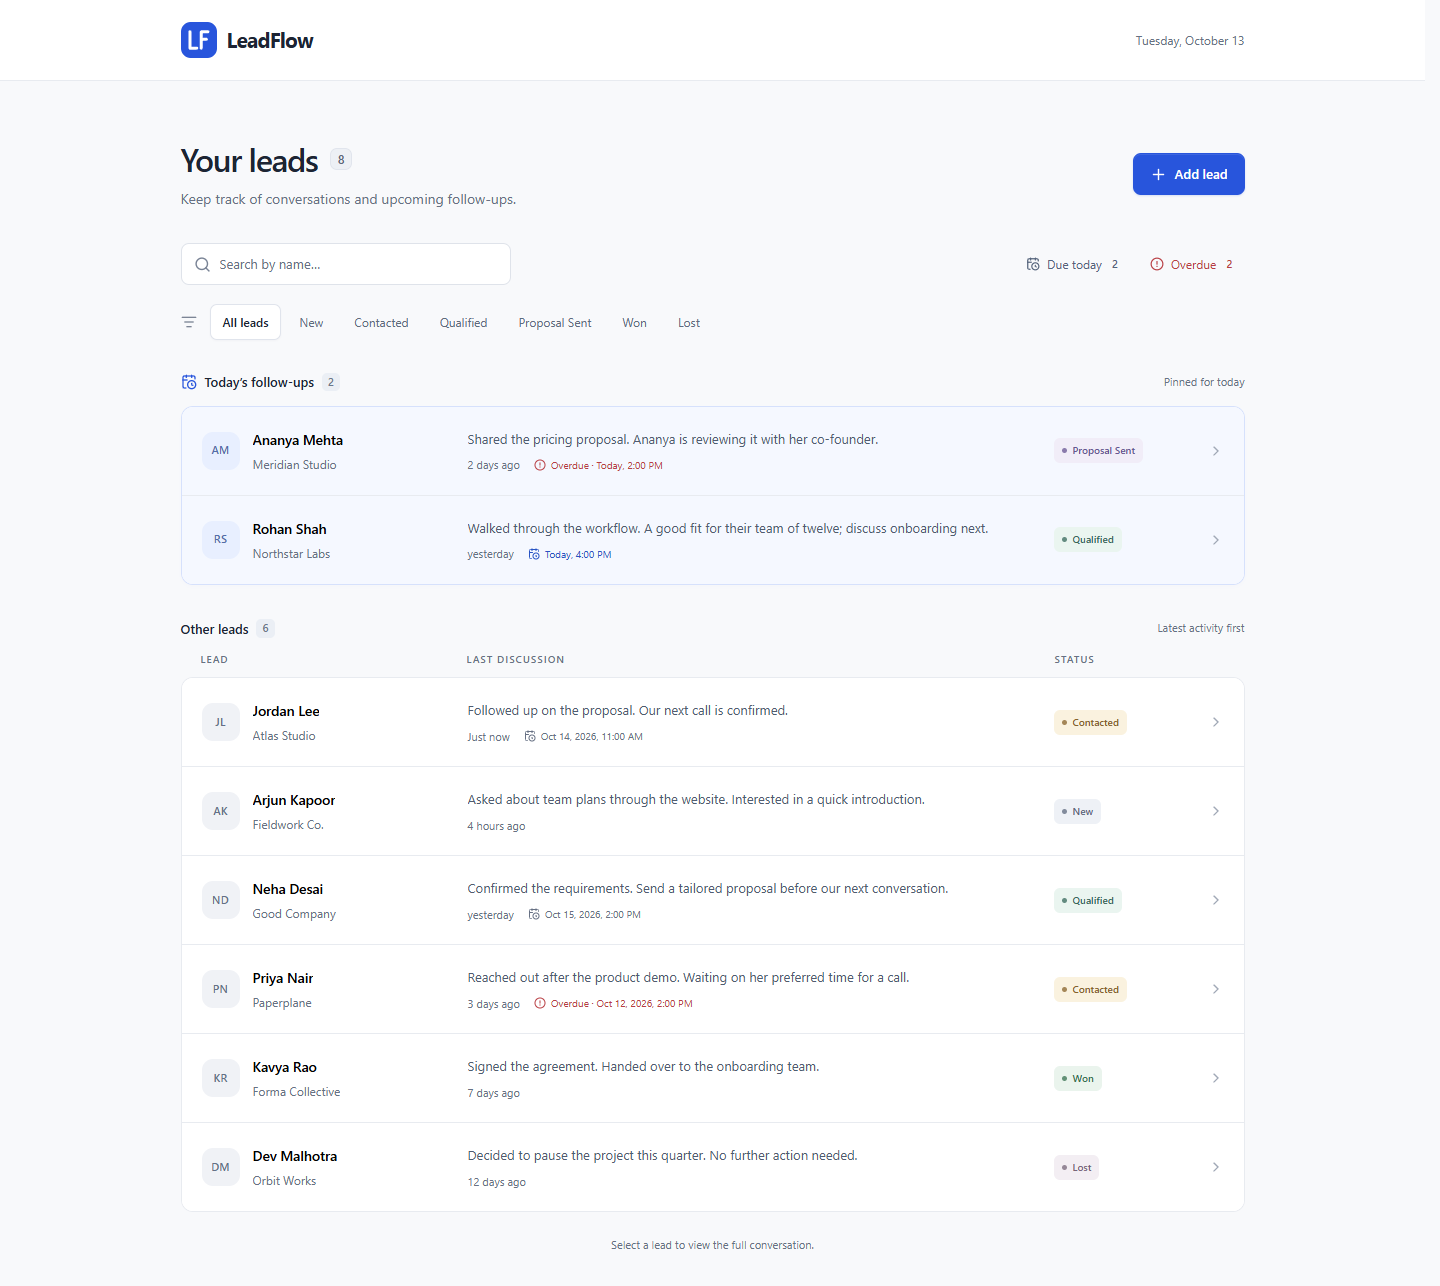
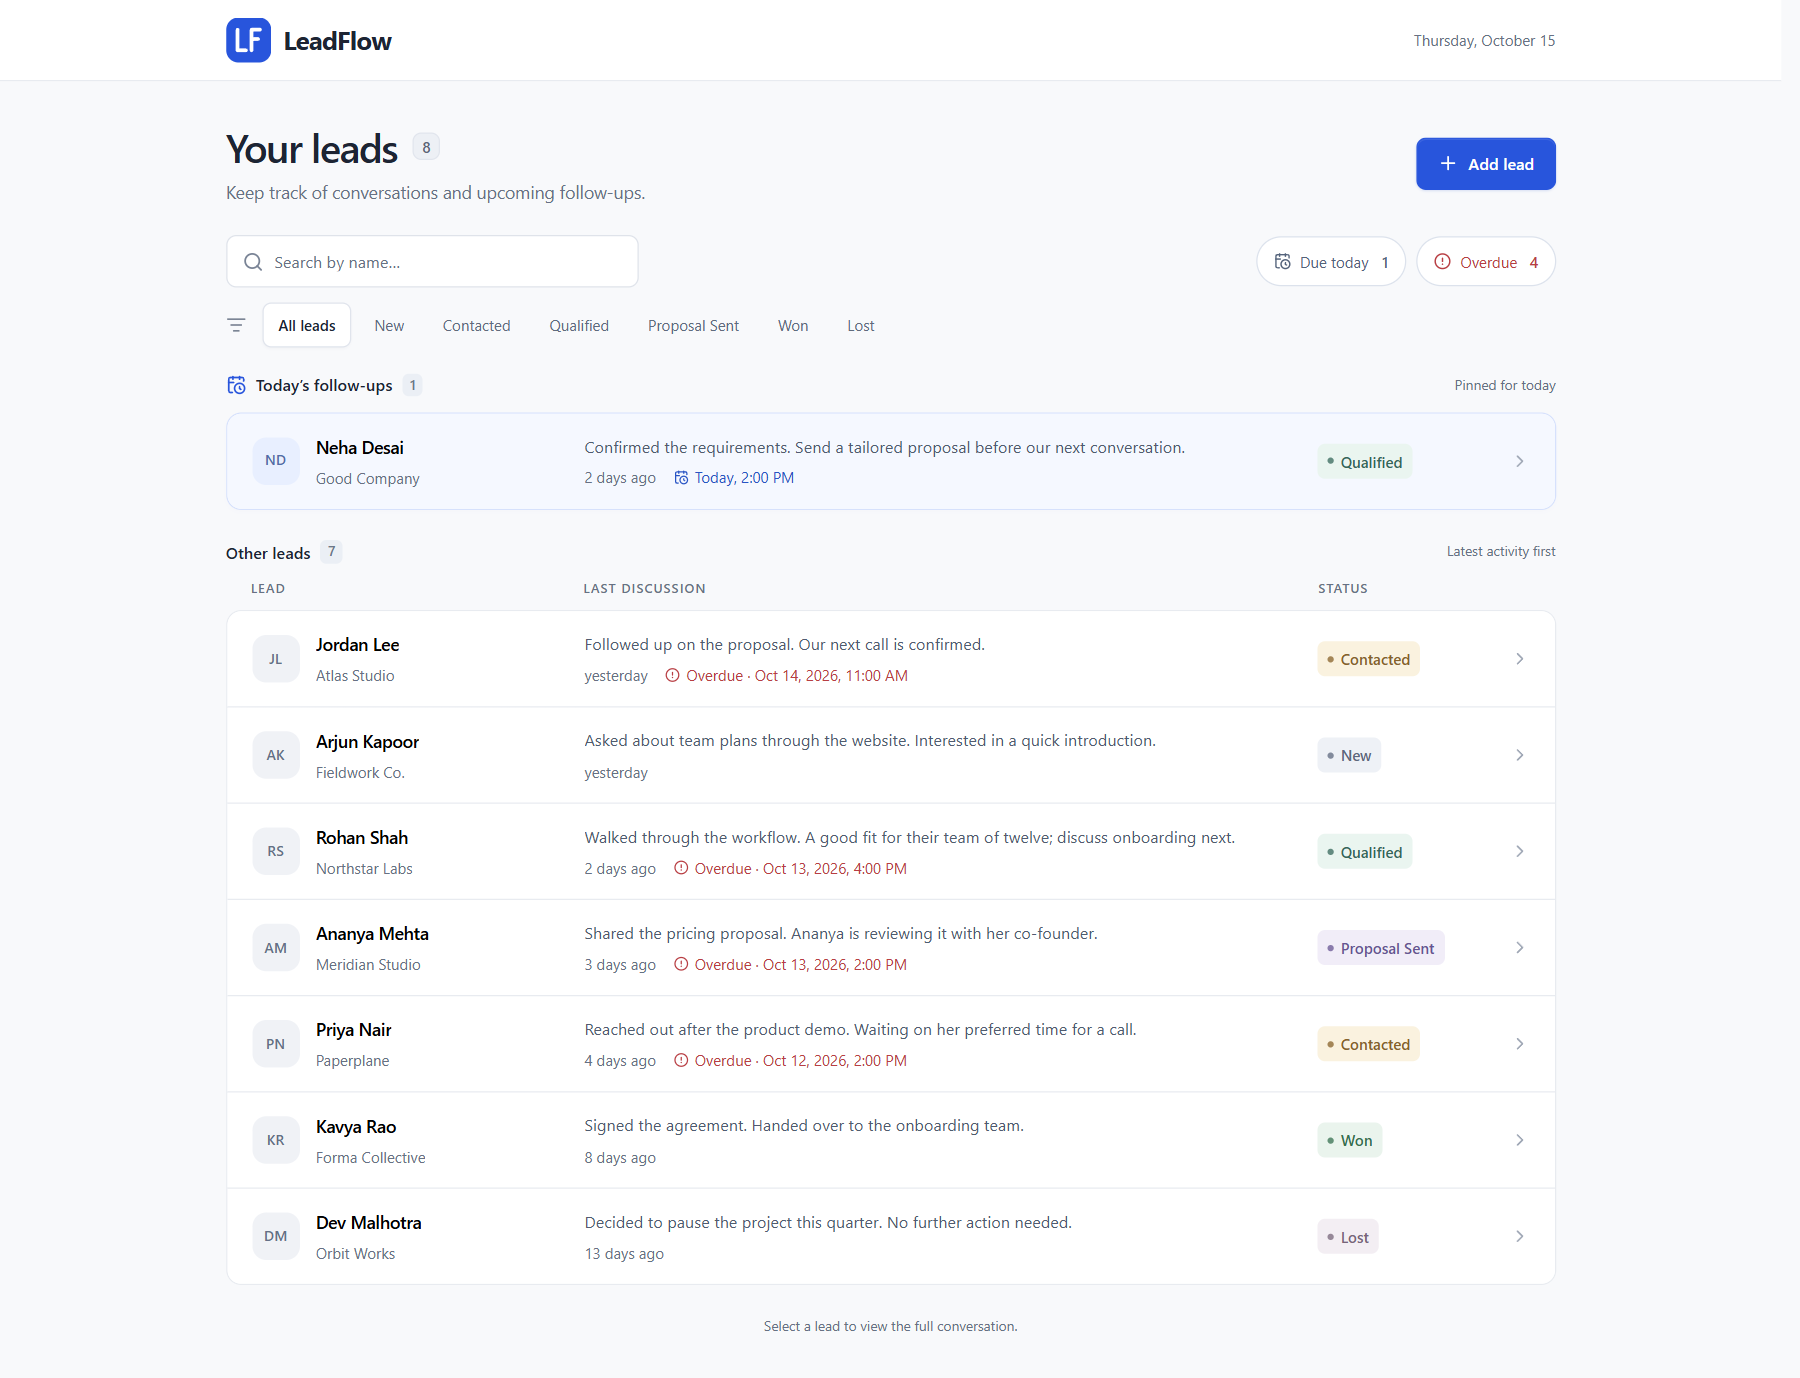
Improve list spacing, readable labels and follow-up filter controls

diff --git a/frontend/src/app/globals.css b/frontend/src/app/globals.css
@@ -29,16 +29,16 @@ fieldset { min-width: 0; border: 0; margin: 0; padding: 0; }
 .skip-link { position: fixed; top: -70px; left: 16px; padding: 12px 20px; z-index: 10; background: white; border-radius: 6px; }
 .skip-link:focus { top: 12px; }
 .app-header { background: var(--surface); border-bottom: 1px solid var(--line); }
-.header-inner { max-width: 1120px; height: 80px; margin: 0 auto; padding: 0 28px; display: flex; align-items: center; justify-content: space-between; }
+.header-inner { max-width: 1120px; height: 64px; margin: 0 auto; padding: 0 28px; display: flex; align-items: center; justify-content: space-between; }
 .brand { display: inline-flex; align-items: center; gap: 10px; font-size: 21px; font-weight: 650; letter-spacing: -.8px; }
 .brand-mark { display: block; width: 36px; height: 36px; flex-shrink: 0; }
 .header-date { color: var(--muted); font-size: 12px; }
-.workspace { max-width: 1120px; margin: 0 auto; padding: 58px 28px 32px; }
-.page-heading { display: flex; align-items: center; justify-content: space-between; gap: 20px; margin-bottom: 34px; }
+.workspace { max-width: 1120px; margin: 0 auto; padding: 32px 28px; }
+.page-heading { display: flex; align-items: center; justify-content: space-between; gap: 20px; margin-bottom: 24px; }
 .title-line { display: flex; align-items: center; gap: 12px; }
 h1 { font-size: 32px; font-weight: 630; letter-spacing: -1.2px; line-height: 1.25; }
 .lead-count { background: #edf0f5; border: 1px solid #e1e5ed; border-radius: 7px; padding: 1px 7px; font-size: 12px; color: #5c6678; font-weight: 600; font-variant-numeric: tabular-nums; }
-.page-heading p { color: var(--muted); margin-top: 9px; font-size: 14px; line-height: 1.5; }
+.page-heading p { color: var(--muted); margin-top: 6px; font-size: 14px; line-height: 1.5; }
 .button { border: 1px solid transparent; border-radius: 8px; padding: 0 16px; min-height: 42px; display: inline-flex; align-items: center; justify-content: center; gap: 8px; font-size: 13px; font-weight: 550; white-space: nowrap; transition: background-color 150ms, box-shadow 150ms, transform 100ms; }
 .button:active:not(:disabled) { transform: scale(.98); }
 .button-primary { background: var(--blue); color: white; box-shadow: 0 1px 2px #1645c426, inset 0 1px 0 #ffffff1a; }
@@ -51,17 +51,17 @@ h1 { font-size: 32px; font-weight: 630; letter-spacing: -1.2px; line-height: 1.2
 input::placeholder, textarea::placeholder { color: var(--muted); opacity: 1; }
 .search-clear { width: 26px; height: 26px; border: 0; padding: 4px; display: grid; place-items: center; border-radius: 5px; background: transparent; }
 .attention-filters { display: flex; align-items: center; gap: 8px; }
-.attention-button { display: inline-flex; align-items: center; gap: 7px; min-height: 38px; padding: 0 11px; border: 1px solid transparent; border-radius: 8px; background: transparent; color: #54637b; font-size: 12px; transition: background-color 150ms, border-color 150ms; }
-.attention-button > span { font-size: 11px; font-weight: 600; font-variant-numeric: tabular-nums; padding-left: 3px; }
-.attention-button.active { color: #2854c4; background: #edf2ff; border-color: #d6e1fc; }
+.attention-button { display: inline-flex; align-items: center; gap: 7px; min-height: 40px; padding: 0 13px; border: 1px solid #dce2ec; border-radius: 999px; background: var(--surface); color: #54637b; font-size: 12px; transition: background-color 150ms, border-color 150ms; }
+.attention-button > span { font-size: 12px; font-weight: 600; font-variant-numeric: tabular-nums; padding-left: 3px; }
+.attention-button.active { color: #2854c4; background: #eaf0ff; border-color: #9eb3ed; }
 .attention-overdue { color: var(--red); }
-.attention-overdue.active { color: var(--red); background: #fdf0f0; border-color: #f0d6d7; }
-.filter-bar { display: flex; flex-wrap: wrap; align-items: center; gap: 5px; margin: 19px 0 32px; }
+.attention-overdue.active { color: var(--red); background: #fce9e9; border-color: #d79a9c; }
+.filter-bar { display: flex; flex-wrap: wrap; align-items: center; gap: 5px; margin: 12px 0 20px; }
 .filter-icon { color: #7c8595; margin-right: 8px; }
 .filter-button { padding: 8px 12px; min-height: 35px; background: transparent; border: 1px solid transparent; border-radius: 7px; font-size: 12px; color: #606b7d; transition: background-color 150ms, color 150ms; }
 .filter-button.active { color: var(--ink); background: white; border-color: #e0e4ec; box-shadow: 0 1px 2px #172b4d08; font-weight: 600; }
-.lead-section + .lead-section { margin-top: 34px; }
-.section-heading { display: flex; align-items: center; justify-content: space-between; margin-bottom: 14px; gap: 16px; }
+.lead-section + .lead-section { margin-top: 24px; }
+.section-heading { display: flex; align-items: center; justify-content: space-between; margin-bottom: 12px; gap: 16px; }
 .section-heading h2 { font-size: 13px; font-weight: 600; display: flex; align-items: center; gap: 8px; }
 .section-heading h2 > span { color: #6c778a; font-size: 11px; font-weight: 500; background: #ebeff5; padding: 1px 6px; border-radius: 5px; }
 .section-heading p { color: var(--muted); font-size: 11px; }
@@ -71,7 +71,7 @@ input::placeholder, textarea::placeholder { color: var(--muted); opacity: 1; }
 .today-section .lead-row { background: #f5f8ff; }
 .lead-row, .list-columns { display: grid; grid-template-columns: 246px minmax(0, 1fr) 134px 16px; gap: 20px; align-items: center; }
 .list-columns { padding: 0 20px 10px; color: var(--muted); font-size: 10px; font-weight: 550; letter-spacing: 1px; }
-.lead-row { width: 100%; text-align: left; padding: 22px 20px; border: 0; background: white; transition: background-color 150ms; }
+.lead-row { width: 100%; text-align: left; padding: 16px 20px; border: 0; background: white; transition: background-color 150ms; }
 .lead-row + .lead-row { border-top: 1px solid var(--line); }
 .lead-row:focus-visible { outline-offset: -4px; border-radius: 8px; }
 .lead-identity { display: flex; align-items: center; gap: 13px; min-width: 0; }
@@ -80,14 +80,14 @@ input::placeholder, textarea::placeholder { color: var(--muted); opacity: 1; }
 .lead-name-block { display: flex; flex-direction: column; gap: 5px; min-width: 0; }
 .lead-name { font-weight: 600; font-size: 14px; letter-spacing: -.15px; overflow: hidden; text-overflow: ellipsis; white-space: nowrap; }
 .lead-company { font-size: 12px; color: var(--muted); overflow: hidden; text-overflow: ellipsis; white-space: nowrap; }
-.lead-context { display: flex; flex-direction: column; gap: 9px; min-width: 0; }
+.lead-context { display: flex; flex-direction: column; gap: 7px; min-width: 0; }
 .last-note { color: #505c70; font-size: 13px; line-height: 1.5; display: -webkit-box; -webkit-line-clamp: 1; -webkit-box-orient: vertical; overflow: hidden; overflow-wrap: anywhere; }
 .no-note { color: var(--muted); font-style: italic; }
-.lead-meta { display: flex; flex-wrap: wrap; align-items: center; gap: 6px 14px; color: var(--muted); font-size: 11px; line-height: 1.4; }
-.follow-up { display: inline-flex; align-items: center; gap: 5px; font-size: 10px; }
+.lead-meta { display: flex; flex-wrap: wrap; align-items: center; gap: 6px 14px; color: var(--muted); font-size: 12px; line-height: 1.4; }
+.follow-up { display: inline-flex; align-items: center; gap: 5px; font-size: 12px; }
 .follow-up.due-today { color: #2854c4; }
 .follow-up.overdue { color: var(--red); }
-.status-badge { display: inline-flex; justify-self: start; align-items: center; gap: 6px; padding: 5px 8px; border-radius: 6px; font-size: 10px; font-weight: 550; white-space: nowrap; background: #eef1f6; color: #5d687d; }
+.status-badge { display: inline-flex; justify-self: start; align-items: center; gap: 6px; padding: 5px 8px; border-radius: 6px; font-size: 12px; font-weight: 550; white-space: nowrap; background: #eef1f6; color: #5d687d; }
 .status-dot { height: 5px; width: 5px; border-radius: 50%; background: currentColor; opacity: .75; }
 .status-contacted { color: #866129; background: #faf2df; }
 .status-qualified { color: #35675a; background: #eaf5f0; }
@@ -136,7 +136,7 @@ input::placeholder, textarea::placeholder { color: var(--muted); opacity: 1; }
 .status-control select { border: 1px solid #dfe3eb; border-radius: 6px; background: #fff; padding: 7px 28px 7px 9px; color: #46536c; font-size: 12px; min-height: 34px; }
 .current-appointment { display: flex; align-items: center; gap: 11px; margin-top: 20px; padding: 12px; border: 1px solid #dce5fa; border-radius: 9px; background: #f5f8ff; color: #3455a2; }
 .current-appointment > div { display: flex; flex: 1; flex-direction: column; gap: 3px; }
-.current-appointment span { font-size: 10px; }
+.current-appointment span { font-size: 11px; }
 .current-appointment strong { color: #3b485e; font-size: 12px; font-weight: 550; }
 .current-appointment .button { min-height: 34px; padding: 0 10px; font-size: 11px; }
 .appointment-overdue { color: var(--red); background: #fff7f7; border-color: #f0dcdc; }
@@ -150,12 +150,12 @@ input::placeholder, textarea::placeholder { color: var(--muted); opacity: 1; }
 .timeline li:last-child { border-left-color: transparent; }
 .timeline-dot { position: absolute; top: 3px; left: -4px; width: 7px; height: 7px; border-radius: 50%; background: #c8cfdb; box-shadow: 0 0 0 4px white; }
 .latest .timeline-dot { background: var(--blue); }
-.note-timestamp { display: flex; flex-wrap: wrap; align-items: center; gap: 8px; font-size: 10px; color: #56647c; }
+.note-timestamp { display: flex; flex-wrap: wrap; align-items: center; gap: 8px; font-size: 12px; color: #56647c; }
 .note-timestamp time > span { color: var(--muted); }
 .latest-label { color: #315ac9; font-size: 9px; background: #edf2ff; padding: 2px 5px; border-radius: 4px; }
 .discussion-note { white-space: pre-wrap; overflow-wrap: anywhere; line-height: 1.7; font-size: 13px; color: #3b485e; margin-top: 9px; }
-.scheduled-note { display: flex; align-items: center; gap: 6px; color: #4c64a1; font-size: 10px; margin-top: 10px; line-height: 1.5; }
-.note-relative { display: block; color: var(--muted); font-size: 10px; margin-top: 9px; }
+.scheduled-note { display: flex; align-items: center; gap: 6px; color: #4c64a1; font-size: 12px; margin-top: 10px; line-height: 1.5; }
+.note-relative { display: block; color: var(--muted); font-size: 12px; margin-top: 9px; }
 .inline-empty { display: flex; flex-direction: column; align-items: center; gap: 12px; color: var(--muted); text-align: center; font-size: 12px; padding: 16px 0 25px; line-height: 1.6; }
 .inline-empty h3 { color: #4b5871; font-weight: 550; }
 .composer { border-top: 1px solid var(--line); background: #fcfcfe; padding: 22px 30px 24px; }
@@ -167,7 +167,7 @@ input::placeholder, textarea::placeholder { color: var(--muted); opacity: 1; }
 .note-limit { color: var(--muted); font-size: 10px; font-variant-numeric: tabular-nums; }
 .follow-up-fields { margin-top: 12px; max-width: 300px; }
 .follow-up-fields label { display: flex; align-items: center; margin-bottom: 8px; font-size: 11px; color: #5a6880; }
-.current-follow-up { margin-top: 7px; font-size: 10px; }
+.current-follow-up { margin-top: 7px; font-size: 11px; }
 .composer-footer { display: flex; align-items: center; justify-content: space-between; gap: 10px; margin-top: 20px; }
 .save-feedback { display: inline-flex; align-items: center; gap: 5px; color: #337255; font-size: 11px; }
 .composer .form-error { margin: 12px 0 0; }
@@ -187,35 +187,36 @@ input::placeholder, textarea::placeholder { color: var(--muted); opacity: 1; }
 
 @media (max-width: 900px) {
   .lead-row, .list-columns { grid-template-columns: 210px minmax(0, 1fr) 115px 14px; gap: 12px; }
-  .workspace { padding-top: 40px; }
 }
 @media (max-width: 700px) {
-  .header-inner { height: 68px; padding: 0 20px; }
-  .header-date { font-size: 10px; }
-  .workspace { padding: 34px 20px 28px; }
+  .header-inner { padding: 0 20px; }
+  .header-date { font-size: 11px; }
+  .workspace { padding: 24px 20px 28px; }
   h1 { font-size: 28px; }
-  .page-heading { gap: 12px; align-items: flex-start; margin-bottom: 24px; }
+  .page-heading { gap: 12px; align-items: flex-start; margin-bottom: 20px; }
   .page-heading p { max-width: 240px; font-size: 12px; }
-  .page-heading > .button { min-height: 38px; padding: 0 12px; font-size: 12px; margin-top: 2px; }
+  .page-heading > .button { min-height: 44px; padding: 0 12px; font-size: 13px; margin-top: 2px; }
   .toolbar { flex-wrap: wrap; gap: 12px; }
   .attention-filters { width: 100%; }
+  .attention-button { min-height: 44px; }
   .search-box { width: 100%; }
-  .filter-bar { gap: 4px; margin: 15px 0 26px; }
+  .filter-bar { gap: 4px; margin: 12px 0 16px; }
   .filter-icon { display: none; }
-  .filter-button { padding: 8px 10px; font-size: 11px; }
+  .filter-button { min-height: 44px; padding: 8px 10px; font-size: 12px; }
   .section-heading p { font-size: 10px; }
   .section-heading h2 { font-size: 12px; }
   .list-columns { display: none; }
-  .lead-row { grid-template-columns: minmax(0, 1fr) auto; gap: 12px; padding: 18px 16px; }
+  .lead-row { grid-template-columns: minmax(0, 1fr) auto; gap: 12px; padding: 16px; }
   .lead-identity { grid-column: 1; grid-row: 1; gap: 10px; }
   .avatar { width: 34px; height: 34px; border-radius: 9px; font-size: 10px; }
-  .status-badge { grid-column: 2; grid-row: 1; justify-self: end; font-size: 9px; padding: 5px 6px; }
+  .status-badge { grid-column: 2; grid-row: 1; justify-self: end; }
   .lead-context { grid-column: 1 / -1; grid-row: 2; gap: 7px; }
   .last-note { -webkit-line-clamp: 2; }
   .row-chevron { display: none; }
   .lead-name { font-size: 14px; }
-  .lead-company { font-size: 11px; }
-  .lead-section + .lead-section { margin-top: 28px; }
+  .lead-company { font-size: 12px; }
+  .icon-button { width: 44px; height: 44px; }
+  .current-appointment .button { min-height: 44px; font-size: 12px; }
   .modal-wide { width: 100%; max-height: 100dvh; height: 100dvh; border-radius: 0; }
   .modal-wide .modal-panel { height: 100%; display: flex; flex-direction: column; }
   .modal-wide .history { flex: 1; max-height: none; min-height: 0; }
